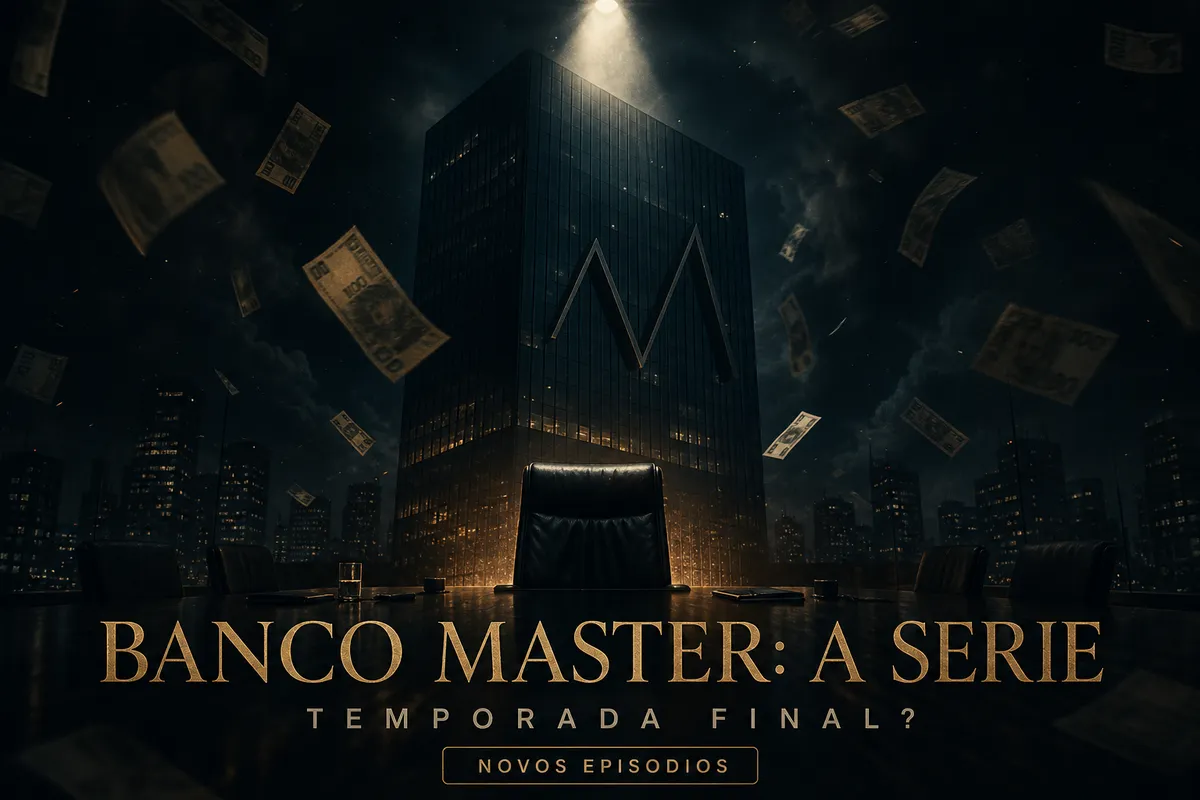
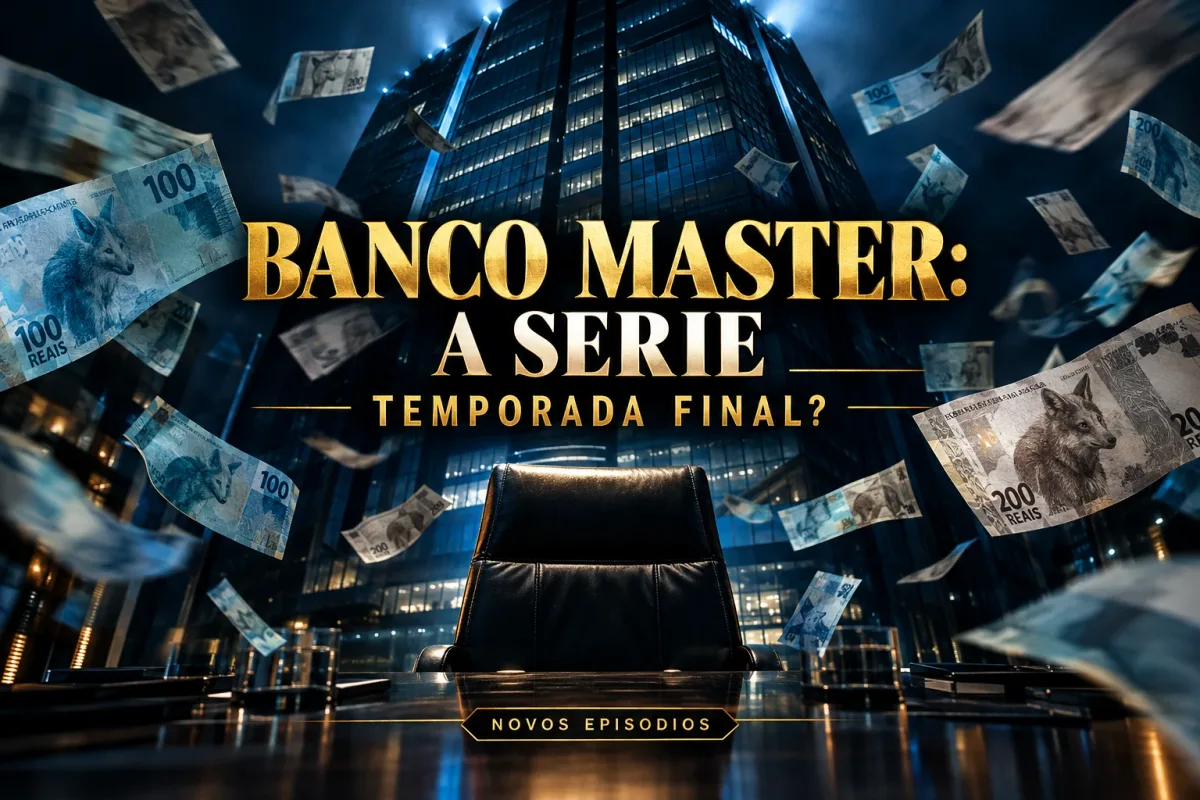
Banco Master: capa nova, imagens e fontes; agenda perfil Daniel Vorcaro para 16/10 11h

diff --git a/src/content/blog/banco-master-serie-netflix-vorcaro.md b/src/content/blog/banco-master-serie-netflix-vorcaro.md
@@ -1,36 +1,43 @@
 ---
-title: "Banco Master e Vorcaro: o caso que parece série de streaming"
+title: "Banco Master: o caso que parece série de streaming"
 description: "Liquidação, operação da PF, delação que não saiu e depoimentos: o caso Banco Master tem cara de série. Texto de opinião com humor, sobre fatos públicos."
 category: "Curiosidades"
-date: 2026-10-15T09:40:00-03:00
+date: 2026-10-15T11:00:00-03:00
 readingTime: "5 min"
 image: "./images/banco-master-serie-netflix-vorcaro.webp"
 imageAlt: "Pôster fictício de série em estilo cinematográfico com prédio comercial à noite, cadeira vazia em sala de reunião e notas flutuando"
-tags: ["Banco Master", "Daniel Vorcaro", "Streaming", "Curiosidades"]
+tags: ["Banco Master", "Streaming", "Curiosidades"]
 related: ["paramount-warner-hbo-max-paramount-plus"]
 ---
 
 Se você abriu o celular nos últimos meses, provavelmente esbarrou no assunto: Daniel Vorcaro e o Banco Master. Tem manchete nova quase toda semana, e a sensação é de que alguém apertou "próximo episódio" sem avisar. Este é um texto de opinião, com humor, baseado em informações públicas divulgadas pela imprensa e por órgãos oficiais. O caso é sério, segue em andamento e as pessoas citadas têm direito à presunção de inocência.
 
-O sarcasmo aqui mira o formato, não as pessoas: a história tem tanta cara de produção de streaming que dá para analisá-la como se analisa uma temporada.
+O sarcasmo aqui mira o formato, não as pessoas: a história tem tanta cara de produção de streaming que dá para analisá-la como se analisa uma temporada. As imagens deste texto são ilustrações criadas com inteligência artificial, com personagens fictícios, e não representam pessoas nem eventos reais.
 
 ## Episódio 1: o piloto que ninguém pediu
 
-Toda boa série começa com um gancho. Neste caso, o gancho veio em novembro de 2025, quando o Banco Central oficializou a liquidação extrajudicial de empresas ligadas ao grupo, como a Master Corretora, segundo a [Agência Brasil](https://agenciabrasil.ebc.com.br/economia/noticia/2025-11/banco-central-oficializa-liquidacao-da-master-corretora). A Polícia Federal conduz a Operação Compliance Zero sobre o caso, e Daniel Vorcaro, então dono do banco, acabou preso.
+Toda boa série começa com um gancho. Neste caso, o gancho veio em novembro de 2025, quando o Banco Central oficializou a liquidação extrajudicial de empresas ligadas ao grupo, como a Master Corretora, segundo a [Agência Brasil](https://agenciabrasil.ebc.com.br/economia/noticia/2025-11/banco-central-oficializa-liquidacao-da-master-corretora). A Polícia Federal conduz a Operação Compliance Zero sobre o caso, e Daniel Vorcaro, então dono do banco, foi preso em 4 de março de 2026, segundo a [CNN Brasil](https://www.cnnbrasil.com.br/blogs/matheus-teixeira/politica/pgr-rejeita-delacao-premiada-de-daniel-vorcaro/).
 
 Para o público acostumado a pular a abertura, foi um piloto e tanto: já começa com um desfecho que muita série deixaria para o último episódio.
+![Silhueta de um homem de terno, de costas, diante de uma janela com vista noturna da cidade, segurando um leque de cédulas de real](./images/banco-master-serie-protagonista.webp)
+
+*Imagem ilustrativa criada com IA. Personagem fictício, sem relação com pessoas reais.*
 
 ## Temporadas, fases e o "continua"
 
-A PF costuma dividir operações em fases, e a Compliance Zero já somava dez, segundo reportagem da [Gazeta do Povo](https://www.gazetadopovo.com.br/republica/por-que-a-pgr-e-a-pf-desistiram-da-delacao-de-daniel-vorcaro/). Em vocabulário de streaming, é série longa, com elenco que cresce a cada capítulo.
+A PF costuma dividir operações em fases, e cada nova etapa costuma trazer novos personagens para o enredo. Em vocabulário de streaming, é série longa, com elenco que cresce a cada capítulo.
 
 O problema de qualquer série longa é que o espectador novo chega no meio e não entende nada. Quem não acompanhou desde o início precisa de um "anteriormente em..." do tamanho de um livro. Nenhuma plataforma oferece o botão de pular recapitulação com tanta urgência.
 
+![Cena de uma festa de gala em cobertura de luxo à noite, com convidados fictícios de terno e vestido, taças, charutos e cédulas sobre a mesa](./images/banco-master-serie-festa.webp)
+
+*Imagem ilustrativa criada com IA. Cena fictícia, sem relação com pessoas ou eventos reais.*
+
 ## A reviravolta da delação
 
-Toda série tem aquele episódio em que todo mundo jura que a grande revelação vem aí. Aqui, foi a delação premiada. Segundo a Gazeta do Povo, em julho de 2026 a PGR e a PF encerraram as negociações depois de rejeitar duas propostas, por considerarem que não havia fatos ou provas novos que justificassem o benefício.
+Toda série tem aquele episódio em que todo mundo jura que a grande revelação vem aí. Aqui, foi a delação premiada. Segundo a CNN Brasil, a PGR informou ao STF, em junho de 2026, que rejeitou a segunda proposta de colaboração premiada apresentada por Vorcaro, seguindo o entendimento da PF, que já havia recusado propostas anteriores. De acordo com a reportagem, investigadores e procuradores avaliaram que as informações apresentadas não reuniam elementos suficientes para justificar os benefícios de um acordo.
 
-No STF, o ministro André Mendonça, relator do caso, afirmou ter recusado o que chamou de "delação seletiva", de acordo com a mesma reportagem. Ou seja: o spoiler que todo mundo esperava foi cancelado, e a produção seguiu sem ele. A investigação, segundo a reportagem, não depende da confissão do investigado, já que a PF reuniu material em celulares e documentos digitais.
+Ou seja: o spoiler que todo mundo esperava foi cancelado, e a produção seguiu sem ele. A relatoria no STF é do ministro André Mendonça, a quem coube decidir sobre o destino prisional do investigado, conforme a mesma reportagem.
 
 ## Depoimentos: quando o roteiro vira depoimento
 
@@ -56,4 +63,4 @@ Quanto ao final, ninguém sabe. E talvez seja o único spoiler honesto que dá p
 
 - [Agência Brasil: Banco Central oficializa liquidação da Master Corretora](https://agenciabrasil.ebc.com.br/economia/noticia/2025-11/banco-central-oficializa-liquidacao-da-master-corretora)
 - [Agência Brasil: Vorcaro depõe à PF e nega existência de grupo criminoso "A Turma"](https://agenciabrasil.ebc.com.br/justica/noticia/2026-09/vorcaro-depoe-pf-e-nega-existencia-de-grupo-criminoso-turma)
-- [Gazeta do Povo: Fim da delação de Daniel Vorcaro, PGR e PF descartam acordo](https://www.gazetadopovo.com.br/republica/por-que-a-pgr-e-a-pf-desistiram-da-delacao-de-daniel-vorcaro/)
+- [CNN Brasil: PGR rejeita segunda proposta de delação premiada de Daniel Vorcaro](https://www.cnnbrasil.com.br/blogs/matheus-teixeira/politica/pgr-rejeita-delacao-premiada-de-daniel-vorcaro/)

diff --git a/src/content/blog/quem-e-daniel-vorcaro.md b/src/content/blog/quem-e-daniel-vorcaro.md
@@ -1,0 +1,45 @@
+---
+title: "Quem é Daniel Vorcaro: origem, carreira e ascensão do banqueiro"
+description: "Quem é Daniel Vorcaro: onde nasceu, como estudou, a origem da família nos negócios e o caminho até comandar o Banco Master, segundo a imprensa."
+category: "Curiosidades"
+date: 2026-10-16T11:00:00-03:00
+readingTime: "4 min"
+image: "./images/quem-e-daniel-vorcaro.webp"
+imageAlt: "Ilustração criada com IA de um busto dourado de homem de terno e gravata sobre pedestal de mármore preto, em fundo escuro"
+tags: ["Daniel Vorcaro", "Quem é", "Biografia", "Curiosidades"]
+related: ["banco-master-serie-netflix-vorcaro"]
+---
+
+Daniel Vorcaro virou um dos nomes mais buscados do noticiário econômico, e muita gente chega ao assunto sem saber quem ele é. Este texto é um perfil: reúne origem, formação e carreira, com base em reportagens da imprensa e em informações públicas. Ele segue sendo investigado, as apurações estão em andamento e a presunção de inocência vale para todos os citados. A imagem da capa é uma ilustração criada com inteligência artificial.
+
+## Quem é Daniel Vorcaro
+
+Daniel Vorcaro é um banqueiro mineiro, nascido em Belo Horizonte em 1983. Ficou conhecido como controlador do Banco Master, instituição que, a partir de 2021, passou a crescer rápido no mercado de crédito e de investimentos.
+
+Segundo a [InfoMoney](https://www.infomoney.com.br/business/quem-e-daniel-vorcaro-dono-do-banco-master-que-foi-preso-pela-pf/), ele estudou na Fundação Torino, tradicional colégio de Belo Horizonte, e depois cursou economia no Ibmec da capital mineira.
+
+## A origem: uma família do setor imobiliário
+
+O pai, Henrique Vorcaro, fundou a Multipar, grupo ligado ao mercado imobiliário mineiro, antes chamado Vorcaro Imóveis e Centro Sul Empreendimentos. Foi nesse ambiente que o filho começou a trabalhar. Segundo a InfoMoney, o grupo, de acordo com a própria empresa, investiu ao longo dos anos em áreas como educação, tratamento de resíduos, mineração, hotéis e cemitérios.
+
+Antes de entrar no sistema financeiro, Vorcaro também atuou com fundos imobiliários ao lado de Paul Sabbá, o empresário que depois o levaria ao mundo dos bancos.
+
+## O caminho até o banco
+
+A entrada no setor bancário aconteceu em 2016, de acordo com a InfoMoney: o Banco Máxima, então ligado a Sabbá, foi oferecido a Vorcaro, que entrou primeiro como sócio minoritário. No ano seguinte, assumiu o controle, e a mudança foi aprovada pelo Banco Central cerca de dois anos depois. Em 2021, o banco passou a se chamar Banco Master.
+
+## O estilo de negócio
+
+A marca do Master nos primeiros anos foi a estratégia agressiva: captar recursos pagando juros altos e investir em empresas em dificuldade, apostando em recuperá-las. A InfoMoney cita entre os investimentos nomes como Light, Gafisa, Westwing e Oncoclínicas. O modelo dividiu opiniões no mercado, e Vorcaro atribuía parte das críticas ao fato de ser um "outsider" no setor.
+
+## Onde ele está hoje
+
+Vorcaro foi preso em 4 de março de 2026 na Operação Compliance Zero, da Polícia Federal, segundo a [CNN Brasil](https://www.cnnbrasil.com.br/blogs/matheus-teixeira/politica/pgr-rejeita-delacao-premiada-de-daniel-vorcaro/). Em novembro de 2025, o Banco Central já havia oficializado a liquidação extrajudicial de empresas do grupo, como a Master Corretora, segundo a [Agência Brasil](https://agenciabrasil.ebc.com.br/economia/noticia/2025-11/banco-central-oficializa-liquidacao-da-master-corretora). O caso segue em apuração. Para uma leitura em tom de opinião, com humor, sobre como o noticiário tem se parecido com uma série, veja [Banco Master: o caso que parece série de streaming](/banco-master-serie-netflix-vorcaro/).
+
+Para outras leituras de cultura e curiosidades, veja também as [curiosidades sobre a urna eletrônica](/urna-eletronica-curiosidades/).
+
+## Fontes consultadas
+
+- [InfoMoney: Quem é Daniel Vorcaro, dono do Banco Master, que foi preso pela PF?](https://www.infomoney.com.br/business/quem-e-daniel-vorcaro-dono-do-banco-master-que-foi-preso-pela-pf/)
+- [Agência Brasil: Banco Central oficializa liquidação da Master Corretora](https://agenciabrasil.ebc.com.br/economia/noticia/2025-11/banco-central-oficializa-liquidacao-da-master-corretora)
+- [CNN Brasil: PGR rejeita segunda proposta de delação premiada de Daniel Vorcaro](https://www.cnnbrasil.com.br/blogs/matheus-teixeira/politica/pgr-rejeita-delacao-premiada-de-daniel-vorcaro/)
